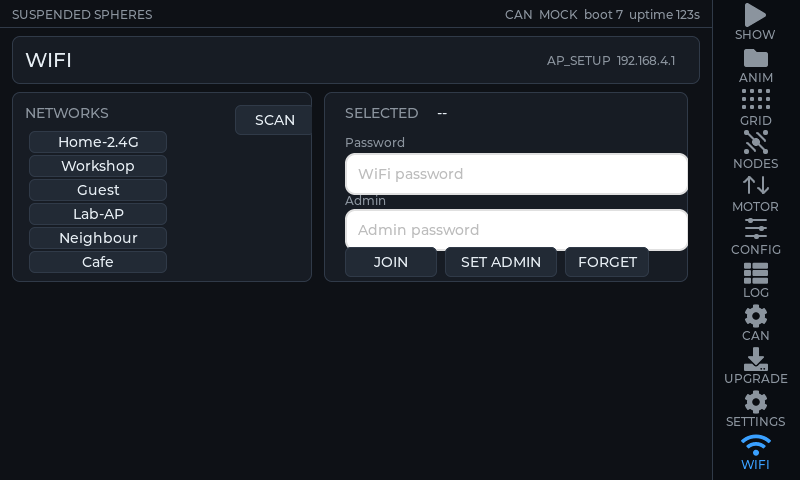
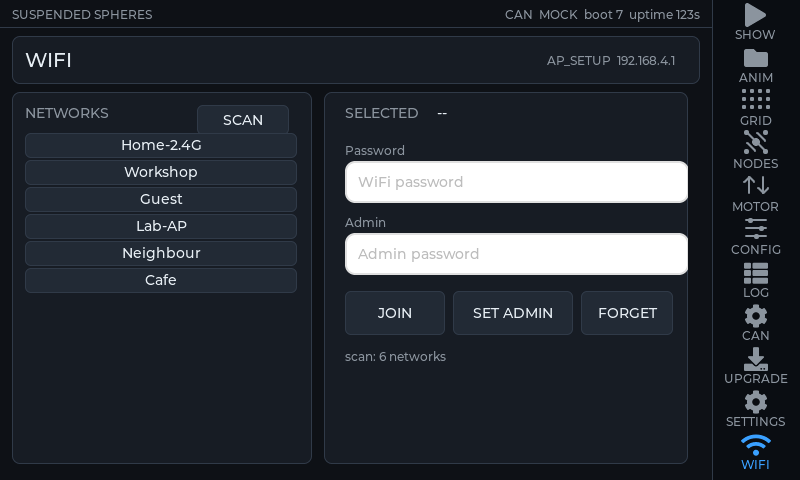
esp32gui: redesign the WiFi screen and show scan progress

Changed region(s): [[0.4062, 0.2812, 0.875, 0.75], [0.0312, 0.25, 0.375, 0.625], [0.2812, 0.2188, 0.375, 0.2812]]

diff --git a/esp32gui/ui/ui.cpp b/esp32gui/ui/ui.cpp
@@ -152,6 +152,8 @@ lv_obj_t *s_wifi_selected;
 lv_obj_t *s_wifi_pass;
 lv_obj_t *s_wifi_admin;
 lv_obj_t *s_wifi_keyboard;
+lv_obj_t *s_wifi_scan_btn;
+lv_obj_t *s_wifi_reason;
 int s_wifi_selected_index = -1;
 uint32_t s_wifi_shown_hash = 0;
 lv_obj_t *s_set_service;
@@ -631,6 +633,15 @@ void on_wifi_admin_focus(lv_event_t *e) {
 }
 
 void on_wifi_kb_ready(lv_event_t *e) {
+  (void)e;
+  lv_obj_t *ta = lv_keyboard_get_textarea(s_wifi_keyboard);
+  if (ta == s_wifi_pass) on_wifi_join(nullptr);
+  else if (ta == s_wifi_admin) on_wifi_admin(nullptr);
+  if (s_wifi_keyboard != nullptr)
+    lv_obj_add_flag(s_wifi_keyboard, LV_OBJ_FLAG_HIDDEN);
+}
+
+void on_wifi_kb_cancel(lv_event_t *e) {
   (void)e;
   if (s_wifi_keyboard != nullptr)
     lv_obj_add_flag(s_wifi_keyboard, LV_OBJ_FLAG_HIDDEN);
@@ -1344,19 +1355,21 @@ void build_wifi(void) {
   make_label(head, "WIFI", &lv_font_montserrat_20, C_TEXT);
   s_wifi_status = make_label(head, "OFF", &lv_font_montserrat_12, C_MUTED);
   lv_obj_align(s_wifi_status, LV_ALIGN_RIGHT_MID, -12, 0);
+  lv_obj_set_width(s_wifi_status, 400);
+  lv_obj_set_style_text_align(s_wifi_status, LV_TEXT_ALIGN_RIGHT, 0);
 
-  lv_obj_t *list = make_panel(s, 12, 64, 300, 190);
+  lv_obj_t *list = make_panel(s, 12, 64, 300, 372);
   make_label(list, "NETWORKS", &lv_font_montserrat_14, C_MUTED);
+  s_wifi_scan_btn = make_button(list, "SCAN", 92, 30, on_wifi_scan, nullptr);
+  lv_obj_set_pos(s_wifi_scan_btn, 172, 0);
   s_wifi_list = lv_obj_create(list);
   lv_obj_remove_style_all(s_wifi_list);
-  lv_obj_set_pos(s_wifi_list, 4, 26);
-  lv_obj_set_size(s_wifi_list, 292, 158);
+  lv_obj_set_pos(s_wifi_list, 0, 28);
+  lv_obj_set_size(s_wifi_list, 276, 328);
   lv_obj_set_style_bg_opa(s_wifi_list, LV_OPA_TRANSP, 0);
   lv_obj_clear_flag(s_wifi_list, LV_OBJ_FLAG_SCROLLABLE);
-  lv_obj_t *scan = make_button(list, "SCAN", 80, 30, on_wifi_scan, nullptr);
-  lv_obj_set_pos(scan, 210, 0);
 
-  lv_obj_t *right = make_panel(s, 324, 64, 364, 190);
+  lv_obj_t *right = make_panel(s, 324, 64, 364, 372);
   lv_obj_t *sel_lbl = make_label(right, "SELECTED", &lv_font_montserrat_14,
                                  C_MUTED);
   lv_obj_set_pos(sel_lbl, 8, 0);
@@ -1367,10 +1380,10 @@ void build_wifi(void) {
 
   lv_obj_t *pass_lbl = make_label(right, "Password", &lv_font_montserrat_12,
                                   C_MUTED);
-  lv_obj_set_pos(pass_lbl, 8, 30);
+  lv_obj_set_pos(pass_lbl, 8, 38);
   s_wifi_pass = lv_textarea_create(right);
-  lv_obj_set_pos(s_wifi_pass, 8, 48);
-  lv_obj_set_size(s_wifi_pass, 344, 34);
+  lv_obj_set_pos(s_wifi_pass, 8, 56);
+  lv_obj_set_size(s_wifi_pass, 344, 40);
   lv_textarea_set_one_line(s_wifi_pass, true);
   lv_textarea_set_password_mode(s_wifi_pass, true);
   lv_textarea_set_placeholder_text(s_wifi_pass, "WiFi password");
@@ -1378,32 +1391,37 @@ void build_wifi(void) {
 
   lv_obj_t *admin_lbl = make_label(right, "Admin", &lv_font_montserrat_12,
                                    C_MUTED);
-  lv_obj_set_pos(admin_lbl, 8, 88);
+  lv_obj_set_pos(admin_lbl, 8, 110);
   s_wifi_admin = lv_textarea_create(right);
-  lv_obj_set_pos(s_wifi_admin, 8, 104);
-  lv_obj_set_size(s_wifi_admin, 344, 34);
+  lv_obj_set_pos(s_wifi_admin, 8, 128);
+  lv_obj_set_size(s_wifi_admin, 344, 40);
   lv_textarea_set_one_line(s_wifi_admin, true);
   lv_textarea_set_password_mode(s_wifi_admin, true);
   lv_textarea_set_placeholder_text(s_wifi_admin, "Admin password");
   lv_obj_add_event_cb(s_wifi_admin, on_wifi_admin_focus, LV_EVENT_FOCUSED,
                       nullptr);
 
-  lv_obj_t *join = make_button(right, "JOIN", 92, 30, on_wifi_join, nullptr);
-  lv_obj_set_pos(join, 8, 142);
-  lv_obj_t *setadmin = make_button(right, "SET ADMIN", 112, 30, on_wifi_admin,
+  lv_obj_t *join = make_button(right, "JOIN", 100, 44, on_wifi_join, nullptr);
+  lv_obj_set_pos(join, 8, 186);
+  lv_obj_t *setadmin = make_button(right, "SET ADMIN", 120, 44, on_wifi_admin,
                                    nullptr);
-  lv_obj_set_pos(setadmin, 108, 142);
-  lv_obj_t *forget = make_button(right, "FORGET", 84, 30, on_wifi_forget_btn,
+  lv_obj_set_pos(setadmin, 116, 186);
+  lv_obj_t *forget = make_button(right, "FORGET", 92, 44, on_wifi_forget_btn,
                                  nullptr);
-  lv_obj_set_pos(forget, 228, 142);
+  lv_obj_set_pos(forget, 244, 186);
+
+  s_wifi_reason = make_label(right, "", &lv_font_montserrat_12, C_MUTED);
+  lv_obj_set_pos(s_wifi_reason, 8, 244);
+  lv_obj_set_width(s_wifi_reason, 344);
+  lv_label_set_long_mode(s_wifi_reason, LV_LABEL_LONG_WRAP);
 
   s_wifi_keyboard = lv_keyboard_create(s);
-  lv_obj_set_pos(s_wifi_keyboard, 12, 294);
-  lv_obj_set_size(s_wifi_keyboard, 688, 150);
+  lv_obj_set_pos(s_wifi_keyboard, 12, 268);
+  lv_obj_set_size(s_wifi_keyboard, 688, 176);
   lv_keyboard_set_mode(s_wifi_keyboard, LV_KEYBOARD_MODE_TEXT_LOWER);
   lv_obj_add_event_cb(s_wifi_keyboard, on_wifi_kb_ready, LV_EVENT_READY,
                       nullptr);
-  lv_obj_add_event_cb(s_wifi_keyboard, on_wifi_kb_ready, LV_EVENT_CANCEL,
+  lv_obj_add_event_cb(s_wifi_keyboard, on_wifi_kb_cancel, LV_EVENT_CANCEL,
                       nullptr);
   lv_obj_add_flag(s_wifi_keyboard, LV_OBJ_FLAG_HIDDEN);
   s_wifi_shown_hash = 0;
@@ -2095,11 +2113,10 @@ void ui_update(const ui_snapshot_t *snapshot) {
     s_wifi_shown_hash = wifi_hash;
     lv_obj_clean(s_wifi_list);
     for (int i = 0; i < s_snap->wifi_scan_count && i < UI_MAX_WIFI_SCAN; ++i) {
-      const int col = i / 6;
-      const int row = i % 6;
-      lv_obj_t *b = make_button(s_wifi_list, s_snap->wifi_scan_ssid[i], 138,
-                                22, on_wifi_row, (void *)(intptr_t)i);
-      lv_obj_set_pos(b, col * 146, row * 24);
+      const int row = i % 12;
+      lv_obj_t *b = make_button(s_wifi_list, s_snap->wifi_scan_ssid[i], 272,
+                                25, on_wifi_row, (void *)(intptr_t)i);
+      lv_obj_set_pos(b, 0, row * 27);
     }
   }
   if (s_wifi_selected_index >= 0 &&
@@ -2108,9 +2125,22 @@ void ui_update(const ui_snapshot_t *snapshot) {
                       s_snap->wifi_scan_ssid[s_wifi_selected_index]);
   else
     lv_label_set_text(s_wifi_selected, "--");
-  lv_label_set_text_fmt(s_wifi_status, "%s  %s",
-                        s_snap->wifi_state[0] ? s_snap->wifi_state : "OFF",
-                        s_snap->wifi_ip[0] ? s_snap->wifi_ip : "");
+  const bool scanning = s_snap->wifi_scanning;
+  if (scanning) {
+    lv_obj_add_state(s_wifi_scan_btn, LV_STATE_DISABLED);
+    lv_obj_t *sl = lv_obj_get_child(s_wifi_scan_btn, 0);
+    if (sl != nullptr) lv_label_set_text(sl, "SCANNING");
+    lv_label_set_text(s_wifi_status, "SCANNING...");
+  } else {
+    lv_obj_clear_state(s_wifi_scan_btn, LV_STATE_DISABLED);
+    lv_obj_t *sl = lv_obj_get_child(s_wifi_scan_btn, 0);
+    if (sl != nullptr) lv_label_set_text(sl, "SCAN");
+    lv_label_set_text_fmt(s_wifi_status, "%s  %s",
+                          s_snap->wifi_state[0] ? s_snap->wifi_state : "OFF",
+                          s_snap->wifi_ip[0] ? s_snap->wifi_ip : "");
+  }
+  lv_label_set_text(s_wifi_reason,
+                    s_snap->wifi_reason[0] ? s_snap->wifi_reason : "");
 
   /* Settings */
   if (s_snap->wifi_present) {

diff --git a/esp32gui/src/net_manager.cpp b/esp32gui/src/net_manager.cpp
@@ -56,7 +56,7 @@ bool s_sntp_started = false;
 uint32_t s_connect_deadline = 0;
 
 enum cmd_t { CMD_NONE, CMD_SETUP, CMD_FORGET, CMD_SCAN, CMD_SERVICE,
-             CMD_GITHUB_CHECK, CMD_CONNECT, CMD_SET_ADMIN };
+             CMD_GITHUB_CHECK, CMD_CONNECT, CMD_SET_ADMIN, CMD_RETRY };
 volatile cmd_t s_cmd = CMD_NONE;
 volatile bool s_cmd_service_on = false;
 
@@ -65,6 +65,7 @@ int s_scan_count = 0;
 char s_pending_ssid[33] = "";
 char s_pending_pass[65] = "";
 char s_pending_admin[65] = "";
+bool s_scanning = false;
 
 uint8_t *s_up_json = nullptr;
 size_t s_up_json_len = 0;
@@ -291,7 +292,7 @@ void do_forget(void) {
 
 void do_scan(void) {
   lock();
-  net_link_scan_start(&s_link);
+  s_scanning = true;
   unlock();
   const int n = WiFi.scanNetworks();
   lock();
@@ -303,7 +304,7 @@ void do_scan(void) {
   unlock();
   WiFi.scanDelete();
   lock();
-  net_link_scan_done(&s_link, s_scan_count);
+  s_scanning = false;
   std::snprintf(s_link.reason, sizeof(s_link.reason), "scan: %d networks",
                 s_scan_count);
   unlock();
@@ -821,6 +822,9 @@ void net_task(void *arg) {
         connect_sta();
         break;
       }
+      case CMD_RETRY:
+        if (s_have_cred && s_ssid[0] != '\0') connect_sta();
+        break;
       case CMD_SET_ADMIN: {
         char pass[65];
         lock();
@@ -883,6 +887,11 @@ extern "C" void net_manager_forget(void) {
 
 extern "C" void net_manager_scan(void) {
   lock();
+  if (s_scanning || s_link.state == NET_CONNECTING) {
+    unlock();
+    return;
+  }
+  std::snprintf(s_link.reason, sizeof(s_link.reason), "scanning...");
   s_cmd = CMD_SCAN;
   unlock();
 }
@@ -898,6 +907,12 @@ extern "C" void net_manager_service_toggle(void) {
   lock();
   s_cmd_service_on = !s_service_on;
   s_cmd = CMD_SERVICE;
+  unlock();
+}
+
+extern "C" void net_manager_retry(void) {
+  lock();
+  s_cmd = CMD_RETRY;
   unlock();
 }
 
@@ -969,6 +984,7 @@ extern "C" void net_manager_snapshot(ui_snapshot_t *snap) {
   std::snprintf(snap->wifi_reason, sizeof(snap->wifi_reason), "%s",
                 s_link.reason);
   snap->service_on = s_service_on;
+  snap->wifi_scanning = s_scanning;
   snap->wifi_scan_count = s_scan_count;
   for (int i = 0; i < s_scan_count && i < UI_MAX_WIFI_SCAN; ++i)
     std::snprintf(snap->wifi_scan_ssid[i], sizeof(snap->wifi_scan_ssid[i]),

diff --git a/esp32gui/src/panel_console.cpp b/esp32gui/src/panel_console.cpp
@@ -79,7 +79,7 @@ void print_help(void) {
   Serial.println("  upgrade all|sel             Run the fleet queue from the embedded image");
   Serial.println("  upstatus                    Queue state and last result");
   Serial.println("  panelota                    Write the SD panel image and reboot");
-  Serial.println("  wifi setup|forget|scan|status  WiFi state (no credentials printed)");
+  Serial.println("  wifi setup|forget|scan|retry|status  WiFi state (no credentials printed)");
   Serial.println("  wifi key                    setup AP key (bench only)");
   Serial.println("  wifi list                   last scan results");
   Serial.println("  webget <path>               loopback HTTP GET for the bench");
@@ -238,6 +238,9 @@ void execute(char *line) {
     } else if (arg != nullptr && strcmp(arg, "forget") == 0) {
       net_manager_forget();
       Serial.println("wifi forget requested");
+    } else if (arg != nullptr && strcmp(arg, "retry") == 0) {
+      net_manager_retry();
+      Serial.println("wifi retry requested");
     } else if (arg != nullptr && strcmp(arg, "scan") == 0) {
       net_manager_scan();
       Serial.println("wifi scan requested");

diff --git a/esp32gui/include/net_manager.h b/esp32gui/include/net_manager.h
@@ -15,6 +15,7 @@ void net_manager_scan(void);
 void net_manager_service(bool on);
 void net_manager_service_toggle(void);
 void net_manager_github_check(void);
+void net_manager_retry(void);
 bool net_manager_connect(const char *ssid, const char *password);
 bool net_manager_set_admin(const char *password);
 bool net_manager_service_on(void);

diff --git a/esp32gui/ui/ui_model.h b/esp32gui/ui/ui_model.h
@@ -192,6 +192,7 @@ typedef struct {
   char wifi_reason[64];
   char wifi_ap_ssid[32];
   char wifi_ap_password[16];
+  bool wifi_scanning;
   int wifi_scan_count;
   char wifi_scan_ssid[UI_MAX_WIFI_SCAN][33];
   bool service_on;

diff --git a/doc/firmware_release_tdd.md b/doc/firmware_release_tdd.md
@@ -489,7 +489,11 @@ On clean commit `bc954a62`, build id `1794858657`:
 - The panel now has a **WIFI** screen: SCAN fills a 12-entry SSID list,
   tapping a row selects it, the password textarea opens the LVGL keyboard,
   JOIN submits, SET ADMIN stores the salted admin hash, and FORGET clears the
-  credentials.  The web setup page remains the same alternative.
+  credentials.  The full content height is used: the network list runs down
+  the left side and the selected/password/admin/action block down the right.
+  SCAN disables while a scan runs and the header shows `SCANNING...`; the
+  keyboard's ready key submits the active field.  The web setup page remains
+  the same alternative.
 - R10 (GitHub pull) is in the tree; see the R10 note below.
 - LVGL object memory now uses PSRAM via `lv_mem_custom.cpp`; the internal
   heap after setting up the AP was about 120 KiB, versus 2 KiB before that
